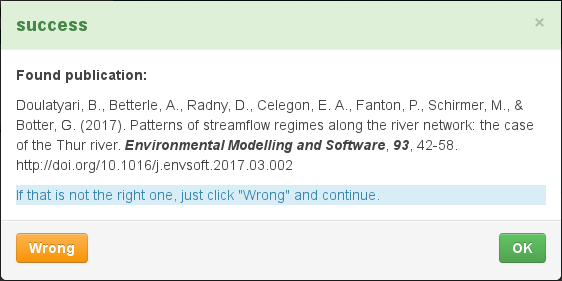
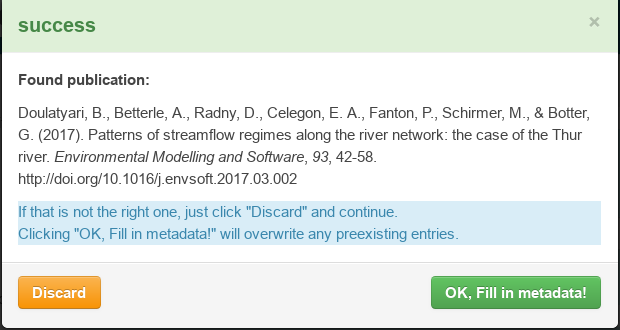
overhauled publication data package entry

diff --git a/ckanext/eaw_schema/fanstatic/checkpublication.js b/ckanext/eaw_schema/fanstatic/checkpublication.js
@@ -180,12 +180,14 @@ ckan.module('eaw_schema_checkpublication', function ($) {
 	maintext = '<p><b>Found publication:</b></p>'
 	  + '<div>' + modalinfo.citation + '</div><p></p>'
 	  + '<div class="alert-info">'
-	  + 'If that is not the right one, just click "Wrong" and continue.</div>';
+	  + 'If that is not the right one, just click "Discard" and continue.'
+          + '<br />Clicking "OK, Fill in metadata!" will overwrite any ' 
+	  + 'preexisting entries.</div>';
 	$('#pubmodal_header').addClass('alert-success');
 	$('#pubmodal_title').html('success');
 	$('#pubmodal_main').html(maintext);
-	$('#pubmodal_button_left').html('Wrong').addClass('btn-warning').show();
-	$('#pubmodal_button_right').html('OK').addClass('btn-success').show();
+	$('#pubmodal_button_left').html('Discard').addClass('btn-warning').show();
+	$('#pubmodal_button_right').html('OK, Fill in metadata!').addClass('btn-success').show();
 	
       }
       $('#pubmodal').modal('show');

diff --git a/ckanext/eaw_schema/templates/scheming/form_snippets/modalsnippets/eaw_schema_publicationlink_help.html b/ckanext/eaw_schema/templates/scheming/form_snippets/modalsnippets/eaw_schema_publicationlink_help.html
@@ -32,9 +32,9 @@
 							publication" />
 	</p>
 	<div class="alert alert-info">
-	If you click <a class="btn btn-success btn-mini">OK</a>,
+	If you click <a class="btn btn-success btn-mini">OK, Fill in metadata!</a>,
 	suitable information from this record will be pre-filled into
-	the data submission form.
+	the data submission form (and overwrite any preexisting entries).
 	</div>
       </div>
     </div>
